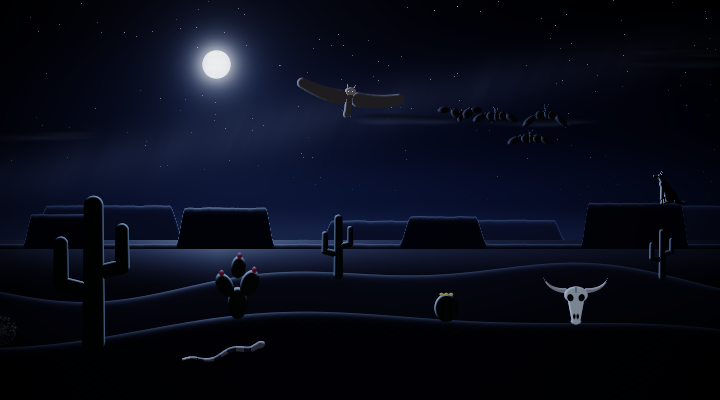
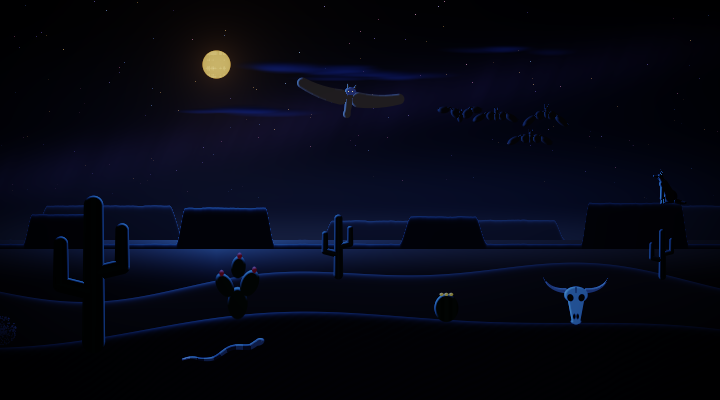
Night: saturated moonlight and tinted highlights instead of white and gray

diff --git a/wallpapers/space.ts b/wallpapers/space.ts
@@ -27,6 +27,10 @@ interface Look {
   lighting: "front" | "limb" | "night"
   // Darkens spacecraft colors away from the sunlit side, leaving the edge light to pick them out.
   tint: RGB
+  ringColor: RGB
+  rockColor: RGB
+  // Stars come in a few colors at night rather than plain white, so they read apart from light text.
+  starTints: boolean
 }
 
 const LOOKS: Record<Time, Look> = {
@@ -42,6 +46,9 @@ const LOOKS: Record<Time, Look> = {
     ring: 1,
     lighting: "front",
     tint: [1, 1, 1],
+    ringColor: [0.75, 0.68, 0.55],
+    rockColor: [0.75, 0.68, 0.6],
+    starTints: false,
   },
   sunset: {
     sun: normalize(-0.5, -0.48, -0.72),
@@ -55,6 +62,9 @@ const LOOKS: Record<Time, Look> = {
     ring: 0.45,
     lighting: "limb",
     tint: [0.3, 0.26, 0.28],
+    ringColor: [0.85, 0.62, 0.45],
+    rockColor: [0.75, 0.62, 0.55],
+    starTints: false,
   },
   night: {
     sun: normalize(0.6, 0.6, -0.5),
@@ -68,10 +78,20 @@ const LOOKS: Record<Time, Look> = {
     ring: 0.12,
     lighting: "night",
     tint: [0.05, 0.06, 0.09],
+    ringColor: [0.35, 0.4, 0.9],
+    rockColor: [0.4, 0.5, 0.95],
+    starTints: true,
   },
 }
 
 const SURFACE = buildSurface()
+const WHITE_STAR: RGB = [1, 0.97, 1.1]
+const STAR_TINTS: RGB[] = [
+  [0.55, 0.75, 1.2],
+  [1.15, 0.85, 0.45],
+  [1.1, 0.6, 0.85],
+  [0.7, 0.6, 1.2],
+]
 
 interface Traveler {
   x: number
@@ -102,7 +122,7 @@ class Space extends Canvas {
   private ringBox = [0, 0, 0, 0]
   private ringMask = new Uint8Array(0)
   private starPos: [number, number] = [0, 0]
-  private stars = Array.from({ length: 320 }, (_, i) => ({ x: Math.random() * 3, y: Math.random(), layer: i % 3, b: 0.3 + Math.random() * 0.7, phase: Math.random() * TAU }))
+  private stars = Array.from({ length: 320 }, (_, i) => ({ x: Math.random() * 3, y: Math.random(), layer: i % 3, b: 0.3 + Math.random() * 0.7, phase: Math.random() * TAU, tint: STAR_TINTS[i % STAR_TINTS.length] }))
   private comet = { x: -9, y: 0, vx: 0, vy: 0, next: 14 }
   private ufo = { x: -9, y: 0.2, dir: 1, next: 30 }
   private station: Traveler = { x: 0.2, y: 0.3, dir: 1, wait: 0 }
@@ -186,7 +206,7 @@ class Space extends Canvas {
         ? { style: "front", dir: look.sun }
         : look.lighting === "limb"
           ? { style: "rim", color: [1, 0.6, 0.3], x: this.starPos[0], y: this.starPos[1] }
-          : { style: "rim", color: [0.25, 0.32, 0.5], x: cx, y: cy }
+          : { style: "rim", color: [0.2, 0.4, 1], x: cx, y: cy }
     const [n1, n2] = look.nebula
     for (let y = 0; y < H; y++)
       for (let x = 0; x < W; x++) {
@@ -197,8 +217,9 @@ class Space extends Canvas {
         const band = Math.abs(v - (0.15 + u * 0.25)) / 0.12
         const milky = Math.exp(-band * band) * (0.4 + 0.6 * fbm2(u * 9, v * 9, 4)) * 0.06 * look.milkyWay
         const o = (y * W + x) * 3
-        this.hdr[o] = 0.004 + n1[0] * a + n2[0] * b + milky * 0.85
-        this.hdr[o + 1] = 0.005 + n1[1] * a + n2[1] * b + milky * 0.85
+        const [mr, mg] = look.starTints ? [0.55, 0.4] : [0.85, 0.85]
+        this.hdr[o] = 0.004 + n1[0] * a + n2[0] * b + milky * mr
+        this.hdr[o + 1] = 0.005 + n1[1] * a + n2[1] * b + milky * mg
         this.hdr[o + 2] = 0.012 + n1[2] * a + n2[2] * b + milky
       }
     // Rings: bands of dust in a tilted, flattened annulus. The far half is painted now, behind the planet; the near
@@ -226,14 +247,15 @@ class Space extends Canvas {
         const a = 0.75 * density
         const k = look.ring * (0.6 + 0.4 * density)
         const o = y * W + x
+        const [rr, rg, rb] = look.ringColor
         if (qy < 0) {
-          this.blend(o * 3, 0.75 * k, 0.68 * k, 0.55 * k, a)
+          this.blend(o * 3, rr * k, rg * k, rb * k, a)
           if (a > 0.3) this.ringMask[o] = 1
           continue
         }
-        this.ringFront[o * 4] = 0.75 * k
-        this.ringFront[o * 4 + 1] = 0.68 * k
-        this.ringFront[o * 4 + 2] = 0.55 * k
+        this.ringFront[o * 4] = rr * k
+        this.ringFront[o * 4 + 1] = rg * k
+        this.ringFront[o * 4 + 2] = rb * k
         this.ringFront[o * 4 + 3] = a
       }
     this.background = this.hdr.slice()
@@ -253,7 +275,8 @@ class Space extends Canvas {
       const i = (y | 0) * W + (x | 0)
       if (x < 0 || x >= W || y >= H || this.ringMask[i]) continue
       const k = s.b * (0.4 + s.layer * 0.3) * look.starK * (s.b > 0.85 ? 0.75 + 0.25 * Math.sin(this.time * 1.5 + s.phase) : 1) * 0.5
-      this.add(x, y, k, k * 0.97, k * 1.1)
+      const t = look.starTints ? s.tint : WHITE_STAR
+      this.add(x, y, k * t[0], k * t[1], k * t[2])
     }
   }
 
@@ -482,7 +505,7 @@ class Space extends Canvas {
         const pits = 0.7 + 0.45 * fbm2(dx * 2.5 + Math.cos(r.angle) * 2 + r.seed, dy * 2.5 + Math.sin(r.angle) * 2, 4)
         const ambient = look.lighting === "night" ? 0.01 : 0.02
         const k = (ambient + lit * 0.7) * pits
-        this.blend((y * W + x) * 3, k * 0.75, k * 0.68, k * 0.6, clamp((1.05 - rr) * R, 0, 1))
+        this.blend((y * W + x) * 3, k * look.rockColor[0], k * look.rockColor[1], k * look.rockColor[2], clamp((1.05 - rr) * R, 0, 1))
       }
   }
 

diff --git a/wallpapers/desert.ts b/wallpapers/desert.ts
@@ -135,17 +135,17 @@ const LOOKS: Record<Time, Look> = {
   },
   night: {
     style: "rim",
-    light: [0.55, 0.7, 1],
+    light: [0.18, 0.42, 1],
     sky: [
       [0, [0.004, 0.006, 0.02]],
       [0.3, [0.01, 0.018, 0.05]],
       [0.5, [0.025, 0.04, 0.09]],
       [HORIZON, [0.05, 0.07, 0.13]],
     ],
-    orb: { x: 0.3, y: 0.16, r: 0.035, core: [1.6, 1.65, 1.8], glow: [0.5, 0.6, 0.85], near: 0.25, wide: 0.1, moon: true },
+    orb: { x: 0.3, y: 0.16, r: 0.035, core: [1, 0.72, 0.3], glow: [0.45, 0.3, 0.12], near: 0.2, wide: 0.08, moon: true },
     stars: 160,
     milkyWay: true,
-    clouds: { puffy: false, top: [0.02, 0.025, 0.045], bottom: [0.12, 0.14, 0.2], alpha: 0.5 },
+    clouds: { puffy: false, top: [0.015, 0.02, 0.05], bottom: [0.06, 0.1, 0.3], alpha: 0.5 },
     farMesa: [0.03, 0.04, 0.08],
     nearMesa: [0.012, 0.016, 0.035],
     floor: [
@@ -155,9 +155,9 @@ const LOOKS: Record<Time, Look> = {
     backDune: [0.025, 0.03, 0.055],
     frontDune: [0.012, 0.014, 0.028],
     cactus: [0.01, 0.02, 0.02],
-    bone: [0.32, 0.36, 0.42],
-    horn: [0.24, 0.25, 0.28],
-    hornTip: [0.04, 0.04, 0.05],
+    bone: [0.1, 0.2, 0.42],
+    horn: [0.08, 0.13, 0.28],
+    hornTip: [0.02, 0.03, 0.06],
     socket: [0.01, 0.01, 0.015],
     pear: [0.012, 0.022, 0.02],
     fruit: [0.15, 0.03, 0.06],
@@ -165,18 +165,26 @@ const LOOKS: Record<Time, Look> = {
     flower: [0.3, 0.28, 0.12],
     coyote: [0.012, 0.012, 0.02],
     snake: [
-      [0.1, 0.1, 0.12],
-      [0.04, 0.04, 0.05],
-      [0.22, 0.22, 0.25],
+      [0.05, 0.08, 0.16],
+      [0.02, 0.03, 0.07],
+      [0.1, 0.14, 0.3],
     ],
-    twig: [0.12, 0.12, 0.15],
+    twig: [0.06, 0.09, 0.2],
     night: true,
     plumage: [0.08, 0.075, 0.08],
-    plumageLight: [0.16, 0.15, 0.15],
+    plumageLight: [0.08, 0.1, 0.22],
     flock: [0.02, 0.02, 0.03],
     dust: [0, 0, 0],
   },
 }
+
+// Stars come in a few colors rather than plain white, so they read apart from light text.
+const STAR_TINTS: RGB[] = [
+  [0.55, 0.75, 1.2],
+  [1.15, 0.85, 0.45],
+  [1.1, 0.6, 0.85],
+  [0.7, 0.6, 1.2],
+]
 
 // Daylight comes from the upper right, slightly in front of the scene.
 const DAYLIGHT = (() => {
@@ -236,7 +244,7 @@ class Desert extends Canvas {
   private orbX = 0
   private orbY = 0
   private coyoteX = 0
-  private stars: { x: number; y: number; b: number; phase: number }[]
+  private stars: { x: number; y: number; b: number; phase: number; tint: RGB }[]
   private dust = Array.from({ length: 60 }, () => ({ x: Math.random() * 4, y: 0.3 + Math.random() * 0.7, s: Math.random() }))
   private clouds: Cloud[]
   private tumbleweed = { x: -9, dir: 1, next: 14, spin: 0, hop: 0 }
@@ -252,7 +260,7 @@ class Desert extends Canvas {
     this.look = LOOKS[settings.time]
     const look = this.look
     const top = look.milkyWay ? 0.5 : 0.3
-    this.stars = Array.from({ length: look.stars }, () => ({ x: Math.random(), y: Math.random() * top, b: 0.4 + Math.random() * 0.6, phase: Math.random() * TAU }))
+    this.stars = Array.from({ length: look.stars }, () => ({ x: Math.random(), y: Math.random() * top, b: 0.4 + Math.random() * 0.6, phase: Math.random() * TAU, tint: STAR_TINTS[Math.floor(Math.random() * STAR_TINTS.length)] }))
     this.clouds = Array.from({ length: look.clouds.puffy ? 4 : 5 }, () => ({
       x: Math.random() * 2,
       y: look.clouds.puffy ? 0.1 + Math.random() * 0.2 : 0.12 + Math.random() * 0.24,
@@ -409,8 +417,8 @@ class Desert extends Canvas {
           // A faint, mottled band rising from lower left to upper right.
           const band = Math.abs(v - (0.45 - (x / W) * 0.35)) / 0.07
           const m = Math.exp(-band * band) * (0.5 + 0.5 * fbm1(x * 0.05 + v * 9, 4)) * 0.05
-          hdr[o] += m * 0.8
-          hdr[o + 1] += m * 0.85
+          hdr[o] += m * 0.55
+          hdr[o + 1] += m * 0.4
           hdr[o + 2] += m
         }
         const r = d * H
@@ -612,7 +620,7 @@ class Desert extends Canvas {
     const bright = this.look.milkyWay ? 0.6 : 0.35
     for (const s of this.stars) {
       const k = s.b * (1 - s.y / top) * (0.7 + 0.3 * Math.sin(this.time * 0.8 + s.phase)) * bright
-      this.add(s.x * this.W, s.y * this.H, k, k * 0.95, k * 1.15)
+      this.add(s.x * this.W, s.y * this.H, k * s.tint[0], k * s.tint[1], k * s.tint[2])
     }
   }
 

diff --git a/wallpapers/aquarium.ts b/wallpapers/aquarium.ts
@@ -293,9 +293,9 @@ class Aquarium extends Canvas {
       for (let x = 0; x < W; x++) {
         const o = (y * W + x) * 3
         const moon = Math.exp(-Math.hypot(x - mx, (y - my) * 1.6) / (0.16 * H))
-        hdr[o] = hdr[o] * 0.12 + moon * 0.3
-        hdr[o + 1] = hdr[o + 1] * 0.2 + moon * 0.4
-        hdr[o + 2] = hdr[o + 2] * 0.34 + moon * 0.55
+        hdr[o] = hdr[o] * 0.04 + moon * 0.05
+        hdr[o + 1] = hdr[o + 1] * 0.16 + moon * 0.28
+        hdr[o + 2] = hdr[o + 2] * 0.4 + moon * 0.6
       }
     for (const p of this.snow) {
       const pulse = Math.pow(0.5 + 0.5 * Math.sin(this.time * 1.5 + p.s * 50), 3)
@@ -304,7 +304,7 @@ class Aquarium extends Canvas {
       if (p.s > 0.75) this.disc(p.x * H, p.y * H, 1.2, 0.1 * k * 4, (green ? 0.9 : 0.6) * k * 4, (green ? 0.6 : 1) * k * 4, 0.5)
       this.add(p.x * H, p.y * H, 0.1 * k, (green ? 0.9 : 0.6) * k, (green ? 0.6 : 1) * k)
     }
-    if (this.diver) this.drawTorch(this.diver, 6)
+    if (this.diver) this.drawTorch(this.diver, 4, [1, 0.55, 0.15])
   }
 
   protected override layout() {
@@ -1151,7 +1151,7 @@ class Aquarium extends Canvas {
   }
 
   // The torch beam, faint and warm, from the hand forward; it dims as the diver turns edge-on.
-  private drawTorch(dv: Diver, strength: number) {
+  private drawTorch(dv: Diver, strength: number, color: RGB = [1, 0.95, 0.75]) {
     const beam = Math.pow(Math.abs(dv.face), 2)
     if (beam <= 0.02) return
     const [hx, hy] = this.diverPoint(dv, 0.3, 0.07)
@@ -1173,7 +1173,7 @@ class Aquarium extends Canvas {
         const width = along * 0.3 + 1
         if (across > width) continue
         const k = (1 - along / len) * Math.pow(1 - across / width, 2) * 0.14 * beam * strength
-        this.add(x, y, k * 1, k * 0.95, k * 0.75)
+        this.add(x, y, k * color[0], k * color[1], k * color[2])
       }
   }
 

diff --git a/src/engine.tsx b/src/engine.tsx
@@ -62,7 +62,8 @@ for (let v = 0; v < 256; v++) {
   const soft = (x * 1.0) / (1 + x * 0.9)
   EMPTY[v] = Math.round(soft * 255)
 }
-const DESATURATE = 0.22
+// Night scenes keep their color: it is what separates them from light text.
+const DESATURATE = { day: 0.22, sunset: 0.22, night: 0.04 }
 
 function blurRows(src: Float32Array, dst: Float32Array, w: number, h: number, r: number) {
   const inv = 1 / (r * 2 + 1)
@@ -618,12 +619,12 @@ export function createEngine(
       scene.step(dt)
       scene.render()
     }
-    paint(buf, px, scene.W, scene.H, advanced, pixels)
+    paint(buf, px, scene.W, scene.H, advanced, pixels, DESATURATE[settings!.time])
   }
 
   // Everything after the scene has drawn its frame. It never touches the scene object: each wallpaper's scene is a
   // different class, and the optimizer would otherwise fall back to slow code for this whole function after a switch.
-  const paint = (buf: OptimizedBuffer, px: Uint8Array, PW: number, PH: number, advanced: boolean, pixels: boolean) => {
+  const paint = (buf: OptimizedBuffer, px: Uint8Array, PW: number, PH: number, advanced: boolean, pixels: boolean, desaturate: number) => {
     const W = buf.width
     const H = buf.height
     if (advanced) {
@@ -632,7 +633,7 @@ export function createEngine(
       for (let p = 0; p < px.length; p += 4) {
         const l = px[p] * 0.2126 + px[p + 1] * 0.7152 + px[p + 2] * 0.0722
         for (let c = 0; c < 3; c++) {
-          const v = px[p + c] + (l - px[p + c]) * DESATURATE
+          const v = px[p + c] + (l - px[p + c]) * desaturate
           const h = fresh ? v : history[p + c] * PERSISTENCE + v * (1 - PERSISTENCE)
           history[p + c] = h
           px[p + c] = h

diff --git a/wallpapers/jungle.ts b/wallpapers/jungle.ts
@@ -52,16 +52,16 @@ const LOOKS: Record<Time, Look> = {
   },
   night: {
     style: "rim",
-    light: [0.5, 0.7, 1],
+    light: [0.1, 0.7, 0.62],
     mist: [
-      [0.07, 0.11, 0.15],
-      [0.025, 0.045, 0.055],
-      [0.004, 0.008, 0.008],
+      [0.02, 0.08, 0.12],
+      [0.008, 0.035, 0.05],
+      [0.002, 0.008, 0.01],
     ],
-    far: [0.03, 0.05, 0.06],
-    water: [0.25, 0.38, 0.55],
+    far: [0.015, 0.05, 0.06],
+    water: [0.04, 0.38, 0.5],
     shafts: 0.12,
-    tint: [0.03, 0.045, 0.06],
+    tint: [0.02, 0.05, 0.06],
     night: true,
   },
 }
